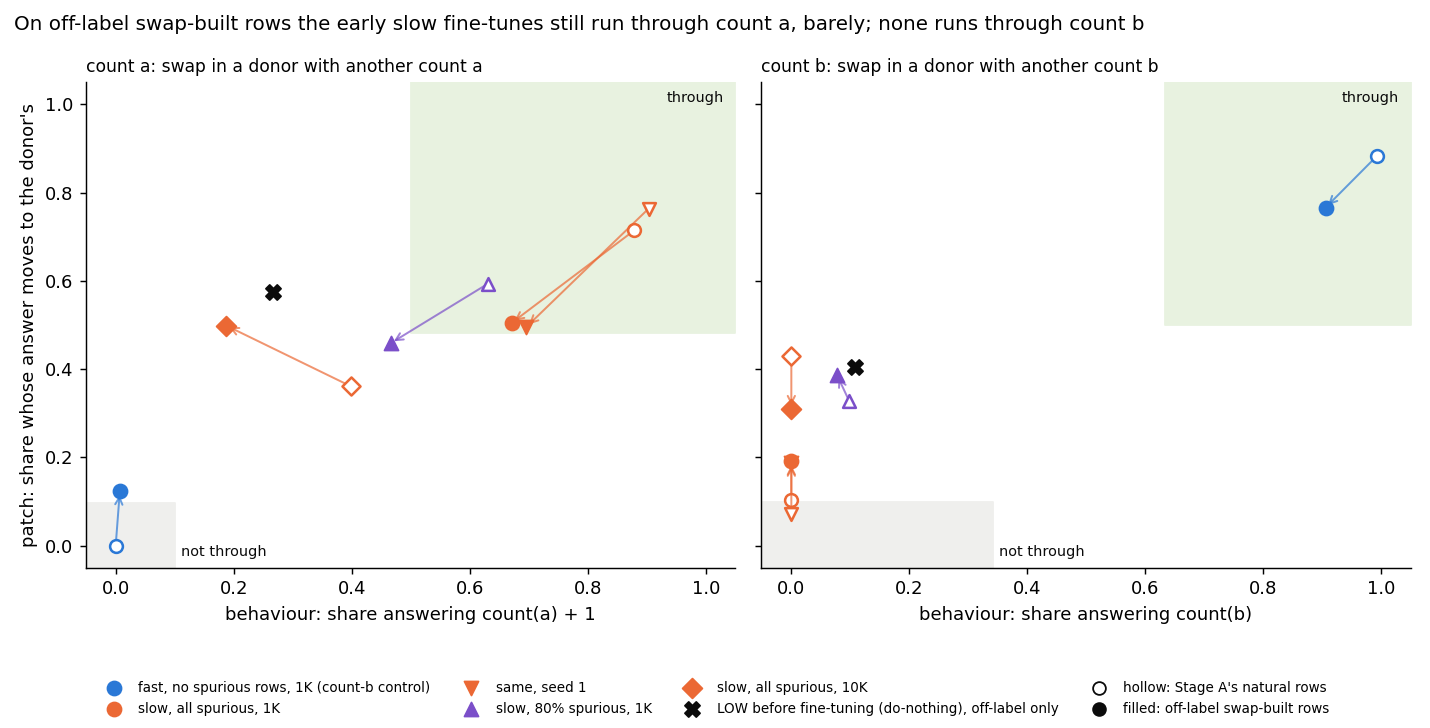
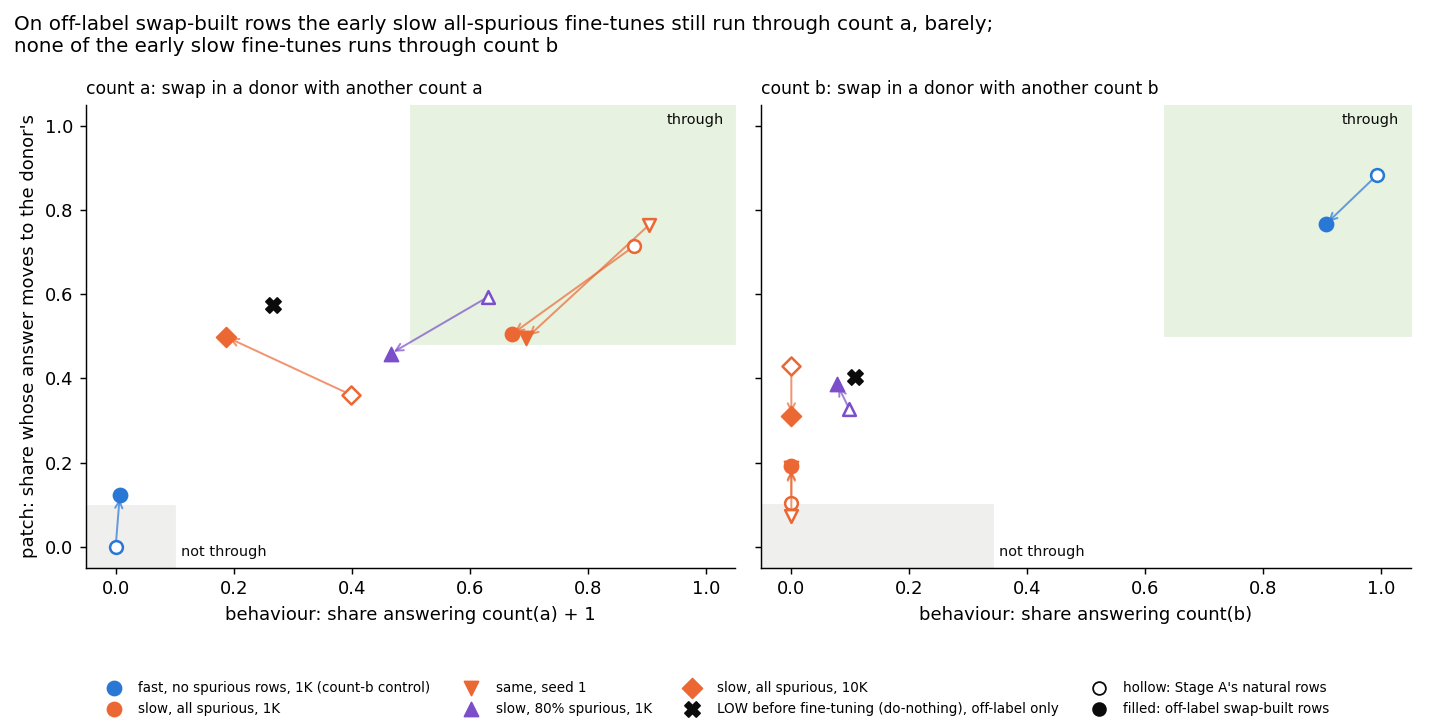
E55 Amendment 4: apply independent check corrections

diff --git a/experiments/pcfg_anchors/plot_amend4.py b/experiments/pcfg_anchors/plot_amend4.py
@@ -33,7 +33,7 @@ def region(ax: Axes, bar_b: dict[str, float], bar_p: dict[str, float]) -> None:
 
 
 def fig_offlabel(out: str = "amend4_offlabel.png",
-                 title: str = "On off-label swap-built rows the early slow fine-tunes still run through count a, barely; none runs through count b") -> None:  # fmt: skip
+                 title: str = "On off-label swap-built rows the early slow all-spurious fine-tunes still run through count a, barely;\nnone of the early slow fine-tunes runs through count b") -> None:  # fmt: skip
     r, bars = load("amend4.json")["part2_off_label"], load("predictions.json")["a2_bars"]
     fig, axes = plt.subplots(1, 2, figsize=(11.0, 5.6), sharex=True, sharey=True)
     for ax, t in zip(axes, ("a", "b"), strict=True):

diff --git a/reports/analyses/2026-10-29_analysis_e55-stage-a.md b/reports/analyses/2026-10-29_analysis_e55-stage-a.md
@@ -6,7 +6,7 @@ E55 Stage A, reuse line, 2026-10-29. Plan `reports/plans/2026-10-29_plan_reuse-s
 
 We fine-tuned a small model that counts only the letter a to count the letter b, and asked whether each new answer runs through the old count, judged without any decomposition.
 Fast fine-tunes never used the old count; slow ones trained mostly or only on rows where one more than the count of a is the answer used it at a thousand steps, and by the end none did, the all-spurious ones answering a rule of two counts.
-Those rows were built by swapping letters, which breaks the base model's count, and on swapped text where one more than the count of a and the count of b differ, the two early states that reuse it answer through a strengthened count of a, not a separate count of b, narrowly and with a pull from b.
+Those rows were built by swapping letters, which breaks the base model's count, and on swapped text where one more than the count of a and the count of b differ, both seeds of the slow all-spurious state at a thousand steps answer through a strengthened count of a, not a separate count of b, while the slow 80% state reads neither; the patch check clears its bar narrowly.
 
 ## The answer
 
@@ -22,7 +22,10 @@ letter-swapped rows built the same way as the spurious fine-tunes' training rows
 of a gives their label on under half. So the two early states that reuse the old count were pushed to change.
 Amendment 4 asked how. On swapped rows where the two readings give different answers, both seeds of the slow
 all-spurious state answer through a strengthened count of a, not a count of b. The patch check clears its bar narrowly,
-and count b pulls a third of their answers one step towards it; the slow 80% state reads neither there. Stage A's
+and a third of their answers sit one step from `count(a) + 1` towards `count(b)`; in most of them that step is also the
+step back towards the pre-swap text, and on the 138 rows that separate the two, answers move only towards `count(b)`
+(13%), never back (exploration, not filed; with a + b + c = 40 this is equally a dependence on count c). The slow 80%
+state reads neither there. Stage A's
 labels, read on natural text, stand.
 
 ## What we were trying to test
@@ -1144,7 +1147,8 @@ We read the three early fine-tunes Stage A called "reuses the old count" on lett
 the count of a and the count of b are different answers. The two slow all-spurious states answer one more than the
 count of a on about two thirds of these rows and almost never the count of b, while the slow 80% state reads neither.
 So the early anchors answer swapped text through a strengthened count of a, not a separate count of b, though the
-patch check clears its bar narrowly and count b pulls their other answers one step towards it.
+patch check clears its bar narrowly and a third of their answers sit one step from `count(a) + 1` towards `count(b)`
+(exploration, not filed; in most of them that step is also the step back towards the pre-swap text).
 
 ### The answer
 
@@ -1153,8 +1157,9 @@ of b. On swap-built rows where the two readings disagree, both seeds answer one 
 thirds of rows. They answer the count of b on one row in a thousand. LOW, the base before fine-tuning, gets its own
 count of a right on about a third of the same rows. The fast no-spurious fine-tune, which counts b, reads "through b"
 there as it should. The slow 80% state and the late all-spurious state read neither. Two things temper the result.
-The patch check clears its bar by less than two standard deviations. And on the remaining rows every answer moves one
-step towards the count of b, the start of the rule of two counts the same arm follows at 10K.
+The patch check clears its bar by less than two standard deviations. And on the remaining rows nearly every answer moves one
+step towards the count of b, which may be the start of the rule of two counts the same arm follows at 10K (an unfiled
+reading).
 
 ### What we were trying to test
 
@@ -1193,7 +1198,9 @@ calls the slow all-spurious state's own count b on natural rows "neither", becau
 just above the lower bar of 0.1. A pure count-a answerer would then have read "neither". The rule now asks only that
 count b not be "through". The seed-copy prediction was made void unless both read one-sided. LOW became a description,
 since the row filter makes its reading "neither" by construction. Rows were limited to `count(a) + 1` from 10 to 17, and
-the result file was written after each part.
+the result file was written after each part. The mirror change also decides the count-b control: off-label, its
+count-a patch share is 0.123, above the lower bar of 0.097, so under the drafted rule it would have read neither and
+voided Part 2.
 
 ### What we expected
 
@@ -1249,19 +1256,20 @@ behaviour shares to the row.
 
 The one-third rule is Amendment 1's answer `round((2(count(a) + 1) + count(b)) / 3)`; its column overlaps the others.
 
-Every answer the slow all-spurious state at 1K gives that is not `count(a) + 1` lies one step from it towards
-`count(b)`: `count(a)` on 28.5% of rows and `count(a) + 2` on 4.2%. Nothing else appears. The pull is uneven. Where
+All but two of the answers the slow all-spurious state at 1K gives that are not `count(a) + 1` lie one step from it towards
+`count(b)`: `count(a)` on 28.5% of rows and `count(a) + 2` on 4.2%. Two rows (0.2%) sit two steps towards it; nothing else appears. The pull is uneven. Where
 the swap raised the count of a and `count(b)` sits below, 57% of its answers move one step; elsewhere 10% to 13% do.
 Moving towards `count(b)` and moving back towards the text before the swap are the same step in most rows. In the
-138 rows where they point opposite ways, 13% of answers move towards `count(b)` and none move back. So count b,
-not the pre-swap text, is what pulls these answers.
+138 rows where they point opposite ways, 13% of answers move towards `count(b)` and none move back. With
+a + b + c = 40, this is equally a dependence on count c.
 
 Split by swap direction, the 1K state answers `count(a) + 1` on about 90% of rows where letters were removed. Where
 letters were added it does so on 58% with one added and 33% with two. LOW's own count of a is right on 35% of these
 rows overall. It falls to 8% where two letters were added. So the 1K state's count of a copes with swapped text far
 better than LOW's, but not fully.
 
-The 10K state follows the one-third rule on 95.8% of off-label rows. It answers `count(a) + 1` on none of the 474 rows
+The 10K state follows the one-third rule on 95.8% of off-label rows. The one-third rule coincides with
+`count(a) + 1` on 16.8% of rows, so the 10K state's 0.187 share right is almost all one-third answers. It answers `count(a) + 1` on none of the 474 rows
 where `count(b)` is three or more away. The rule was found on natural rows; whether these pairs of counts are new was
 not checked.
 
@@ -1287,8 +1295,11 @@ patch. The count-a patch share of the 1K state falls with swap size, from 0.65 a
 
 On swap-built rows where the two readings give different answers, the early slow all-spurious states answer one more
 than the count of a and not the count of b, on both seeds. Their count of a copes with swapped text where LOW's does
-not. So Amendment 3's question has a first answer: mostly R-a, an existing count made stronger. The answer is not clean. The patch check clears its bar narrowly, and count b already moves a third of the
-answers one step towards itself. That is the shape of the rule of two counts the same arm reaches by 10K. The slow 80%
+not. So Amendment 3's question has a first answer: mostly R-a, an existing count made stronger. The answer is not clean. The patch check clears its bar narrowly, and a third of
+their answers sit one step from `count(a) + 1` towards `count(b)`; in most of them that step is also the step back
+towards the pre-swap text, and on the 138 rows that separate the two, answers move only towards `count(b)` (13%), never
+back (exploration, not filed; with a + b + c = 40 this is equally a dependence on count c). Whether that is the shape of
+the rule of two counts the same arm reaches by 10K is an unfiled reading. The slow 80%
 state does not read as either, so on swapped text only the two all-spurious seeds keep the "reuses" label.
 
 ### What it means for the Stage C truth-set decision
@@ -1313,6 +1324,11 @@ it:
   reproduced Stage A's exactly.
 - **Count b has a positive control; count a has none.** The count-b control reads through b with behaviour 0.906 and
   patch 0.766. No saved model counts a on swapped text, so the count-a "through" rests on the bars alone.
+- **The count-a patch share does not single out a strengthened count.** On the same pairs LOW reads 0.575 and the 10K
+  state 0.499, at or above the two seeds (0.505, 0.496). It shows the answer follows the count of a carried at `=`, as
+  LOW's does; that the count was strengthened rests on the behaviour share alone, 0.67 against LOW's 0.35 right.
+- On off-label pairs the count-b patch share is 0.404 for LOW, which does not count b, so the two seeds' 0.19 is not
+  evidence of a pull from b; that rests on the answer breakdown alone.
 - **Noise.** Each share reads 1,000 rows or pairs, a standard deviation near 0.016 at one half. The count-a patch share
   clears its bar by 1.4 and 0.8 standard deviations on the two seeds; both seeds clear it.
 - **Off distribution.** These states trained only on rows where `count(b) = count(a) + 1`. Off-label rows break that,
@@ -1325,20 +1341,22 @@ it:
 ### Surprises
 
 - LOW's `count(a) + 1` share is 0.266, where about zero was expected. LOW lags the swap by about one letter: where two
-  a's were removed it answers one fewer than the text had before on 77% of rows, which equals `count(a) + 1`. So its
+  a's were removed it answers one fewer than the text had before on 77% of rows, and where one was removed on 31%; both equal `count(a) + 1`. So its
   share is a by-product of miscounting, not a count plus one.
-- The 1K state's count-a patch share fell from 0.715 on natural rows to 0.505, against about 0.7 expected under R-a.
+- The 1K state's count-a patch share fell from 0.715 on natural rows to 0.505, against about 0.7 expected under R-a. LOW and the 10K state read 0.50 to 0.58 on the same pairs, so the drop may belong
+  to the pairs, not the state.
 - The 10K state follows the one-third rule on 95.8% of off-label swap-built rows. This was not filed.
 - No filed prediction was reversed.
 
 ### What next
 
 1. **The Stage C truth-set decision**, with this input: the two all-spurious anchors' "reuses" label holds on swapped
-   text as a strengthened count of a, with a pull from count b; the 80% anchor reads neither there.
+   text as a strengthened count of a (behaviour share; the patch share does not single it out); the 80% anchor reads
+   neither there.
 2. **The natural-row re-run of the slow all-spurious arm**, saved at 1K and 2K, if the user picks option C. If both
-   checks read it through count a with no pull from b, the anchors no longer rest on swapped text.
+   checks read it through count a with no step towards `count(b)`, the anchors no longer rest on swapped text.
 3. **The same off-label read at three to seven swapped letters**, $0. If the 1K state's `count(a) + 1` share falls
-   towards LOW's, the strengthening is partial and the pull from b grows; if it holds, the count of a was repaired.
+   towards LOW's, the strengthening is partial and the steps towards `count(b)` grow; if it holds, the count of a was repaired.
 
 ### Scorecard
 

diff --git a/docs/research_log/PENDING.md b/docs/research_log/PENDING.md
@@ -7,4 +7,4 @@ reads this file afresh and flushes what it holds then; a line its brief named th
 clerk: find it in the changelog rather than re-adding it (friction 84, 117).
 A flush applies every line to `parts/` (README.md → Layout), rebuilds, republishes, and moves the lines to the changelog row it writes, leaving this list empty.
 
-- 2026-10-29 reuse-lead · `reports/analyses/2026-10-29_analysis_e55-stage-a.md` (new section "Amendment 4", opening and answer updated), `notebooks/E55_pcfg_anchors.ipynb` (Amendment 4 cells, answer updated), `experiments/TRIED.md` E55 row, figure `experiments/pcfg_anchors/figures/amend4_offlabel.png` (from `plot_amend4.py`) · E55 card (add Amendment 4 to Found; figure fig/e55_amend4_offlabel.png), pending-decision card decision-e55-truth-set (replace the either/or line "Either they count b there, or they strengthened the count of a (not yet checked)" with: checked on swapped rows where the two give different answers, the two all-spurious anchors answer through a strengthened count of a, narrowly and with a pull from b, not a count of b; the 80% anchor reads neither there), decision-e55-plan run line ("Stage A and Amendments 1-4 done"), timeline 2026-10-29 · E55 Amendment 4 ran (job 44746, $0): off-label swap-built rows; W1 1K and seed 1 read "reads a" (B_a 0.67, 0.70; P_a 0.505, 0.496 vs bar 0.483; B_b 0.001), M3 1K neither, N1 1K reads b (control valid); P1, P1s met, P2 missed; reading R-a (existing count made stronger) for the all-spurious anchors; bears on the Stage C truth set, does not decide it.
+- 2026-10-29 reuse-lead · `reports/analyses/2026-10-29_analysis_e55-stage-a.md` (new section "Amendment 4", opening and answer updated), `notebooks/E55_pcfg_anchors.ipynb` (Amendment 4 cells, answer updated), `experiments/TRIED.md` E55 row, figure `experiments/pcfg_anchors/figures/amend4_offlabel.png` (from `plot_amend4.py`) · E55 card (add Amendment 4 to Found; figure fig/e55_amend4_offlabel.png), pending-decision card decision-e55-truth-set (replace the either/or line "Either they count b there, or they strengthened the count of a (not yet checked)" with: "both seeds of the early slow all-spurious state answer swap-built text through a strengthened count of a (behaviour share; patch not specific), not count b; M3 1K reads neither"; the reading was checked by an independent agent and corrected: the report, notebook and figure title were amended 2026-10-30), decision-e55-plan run line ("Stage A and Amendments 1-4 done"), timeline 2026-10-29 · E55 Amendment 4 ran (job 44746, $0): off-label swap-built rows; W1 1K and seed 1 read "reads a" (B_a 0.67, 0.70; P_a 0.505, 0.496 vs bar 0.483; B_b 0.001), M3 1K neither, N1 1K reads b (control valid); P1, P1s met, P2 missed; reading R-a (existing count made stronger, from the behaviour share; the count-a patch share is no higher than LOW's, 0.575, so it does not single it out) for the all-spurious anchors; a third of their answers sit one step from count(a)+1 towards count(b), exploration, not filed, equally a dependence on count c; checked and corrected by an independent agent; bears on the Stage C truth set, does not decide it.
